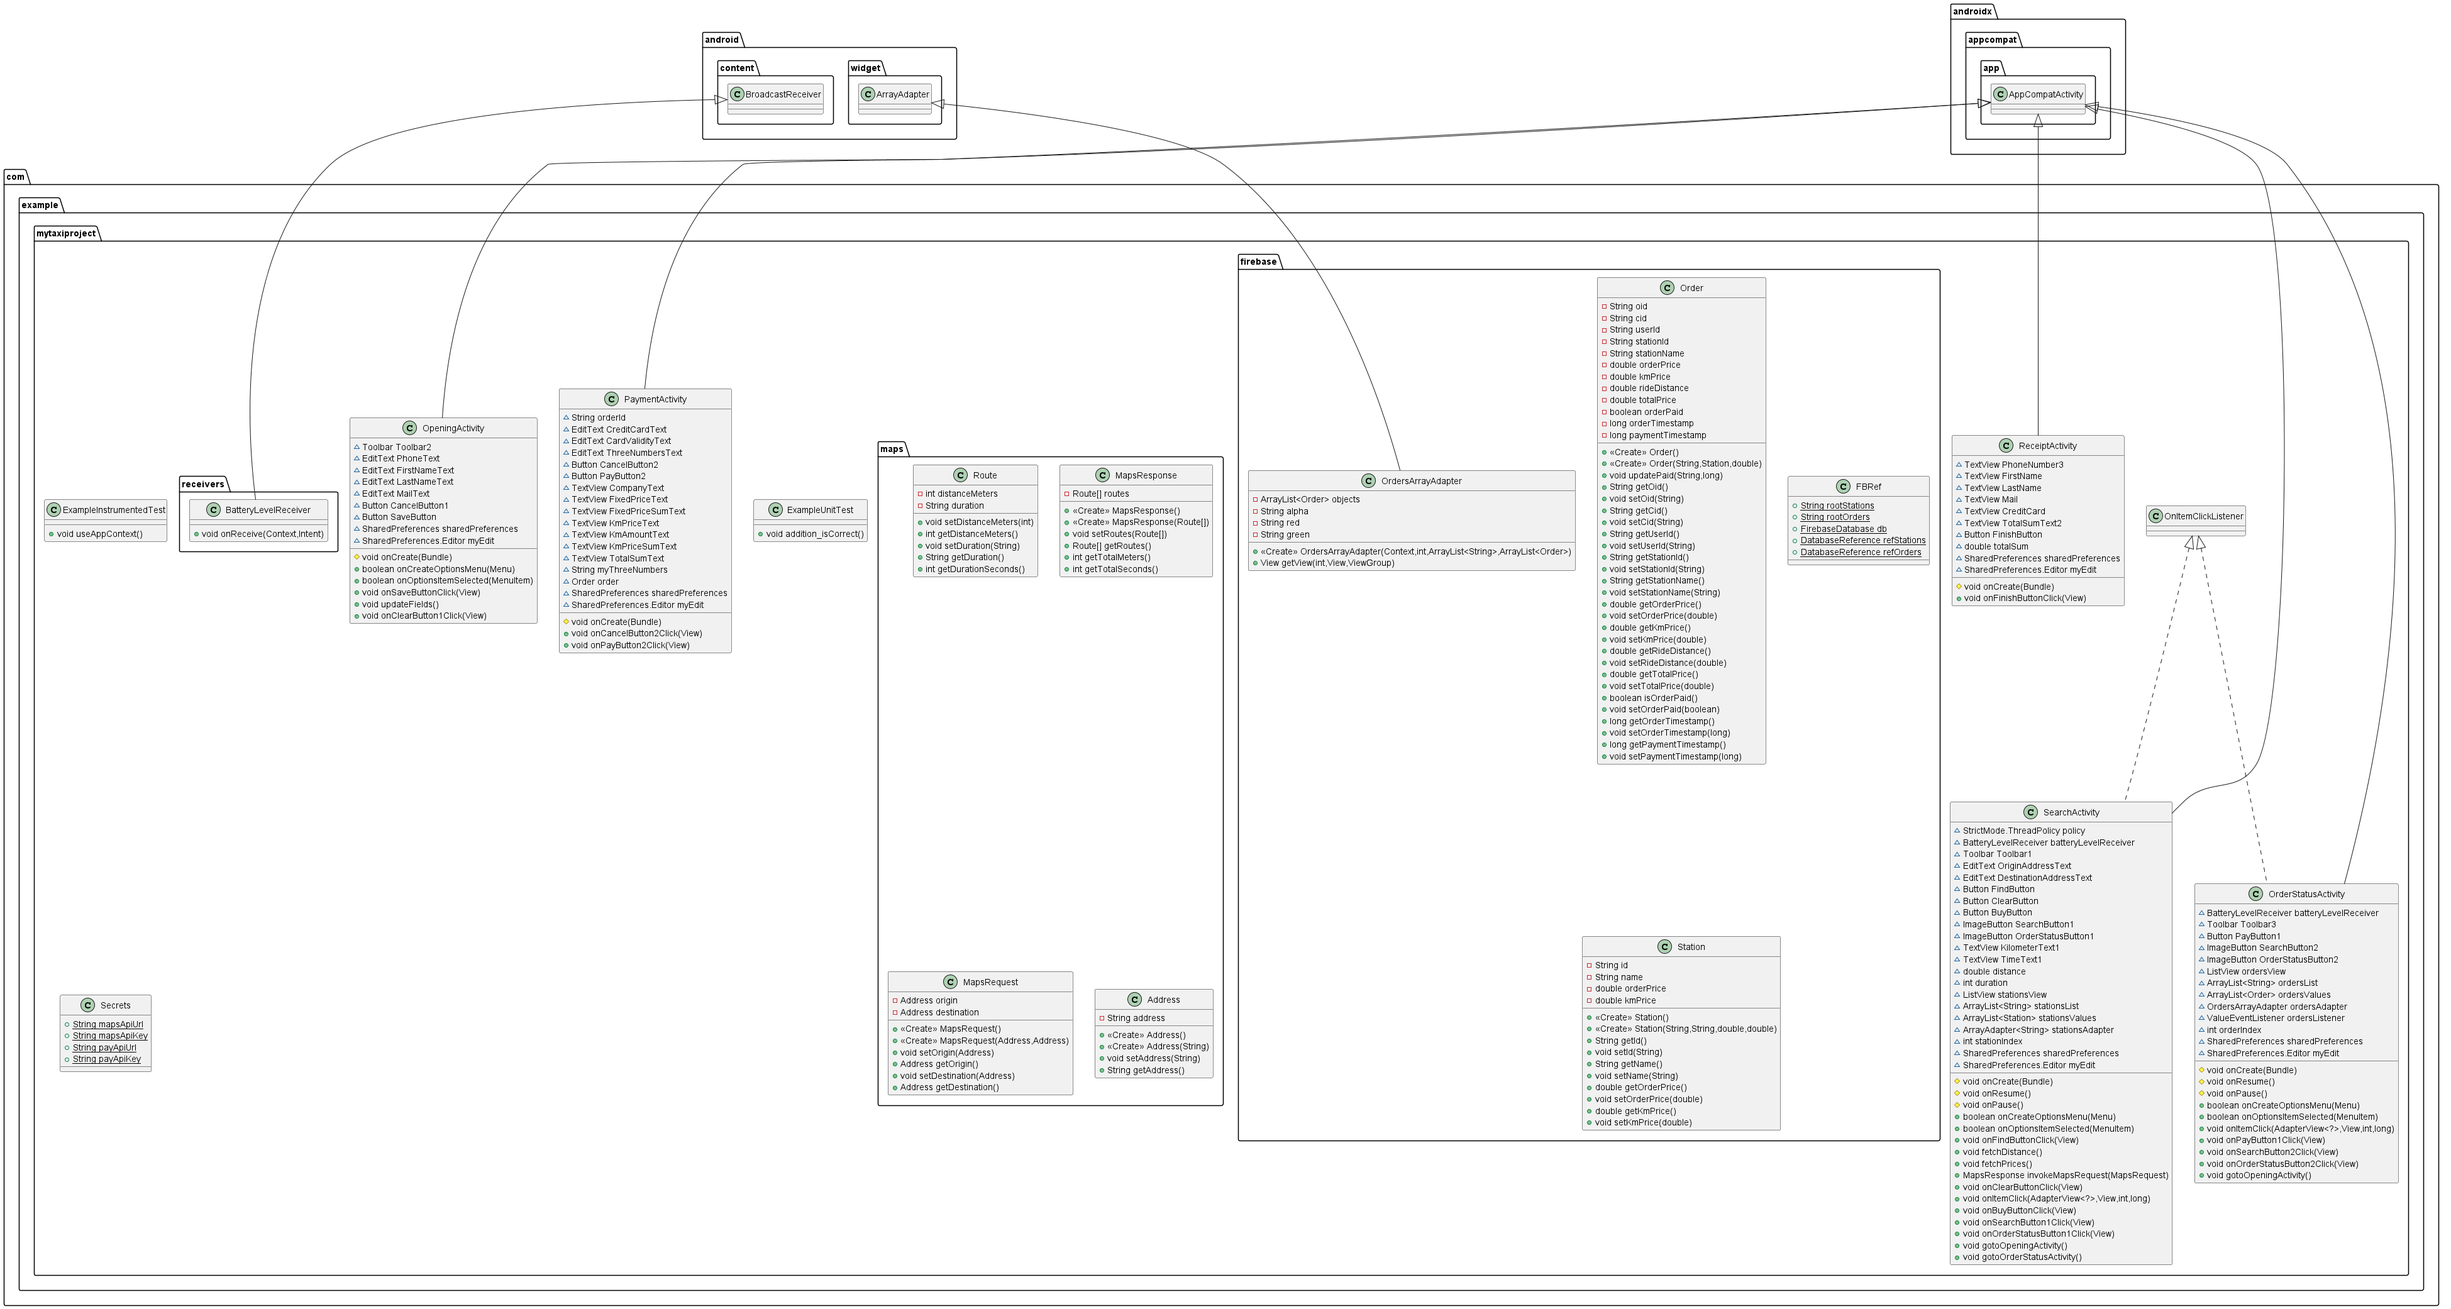
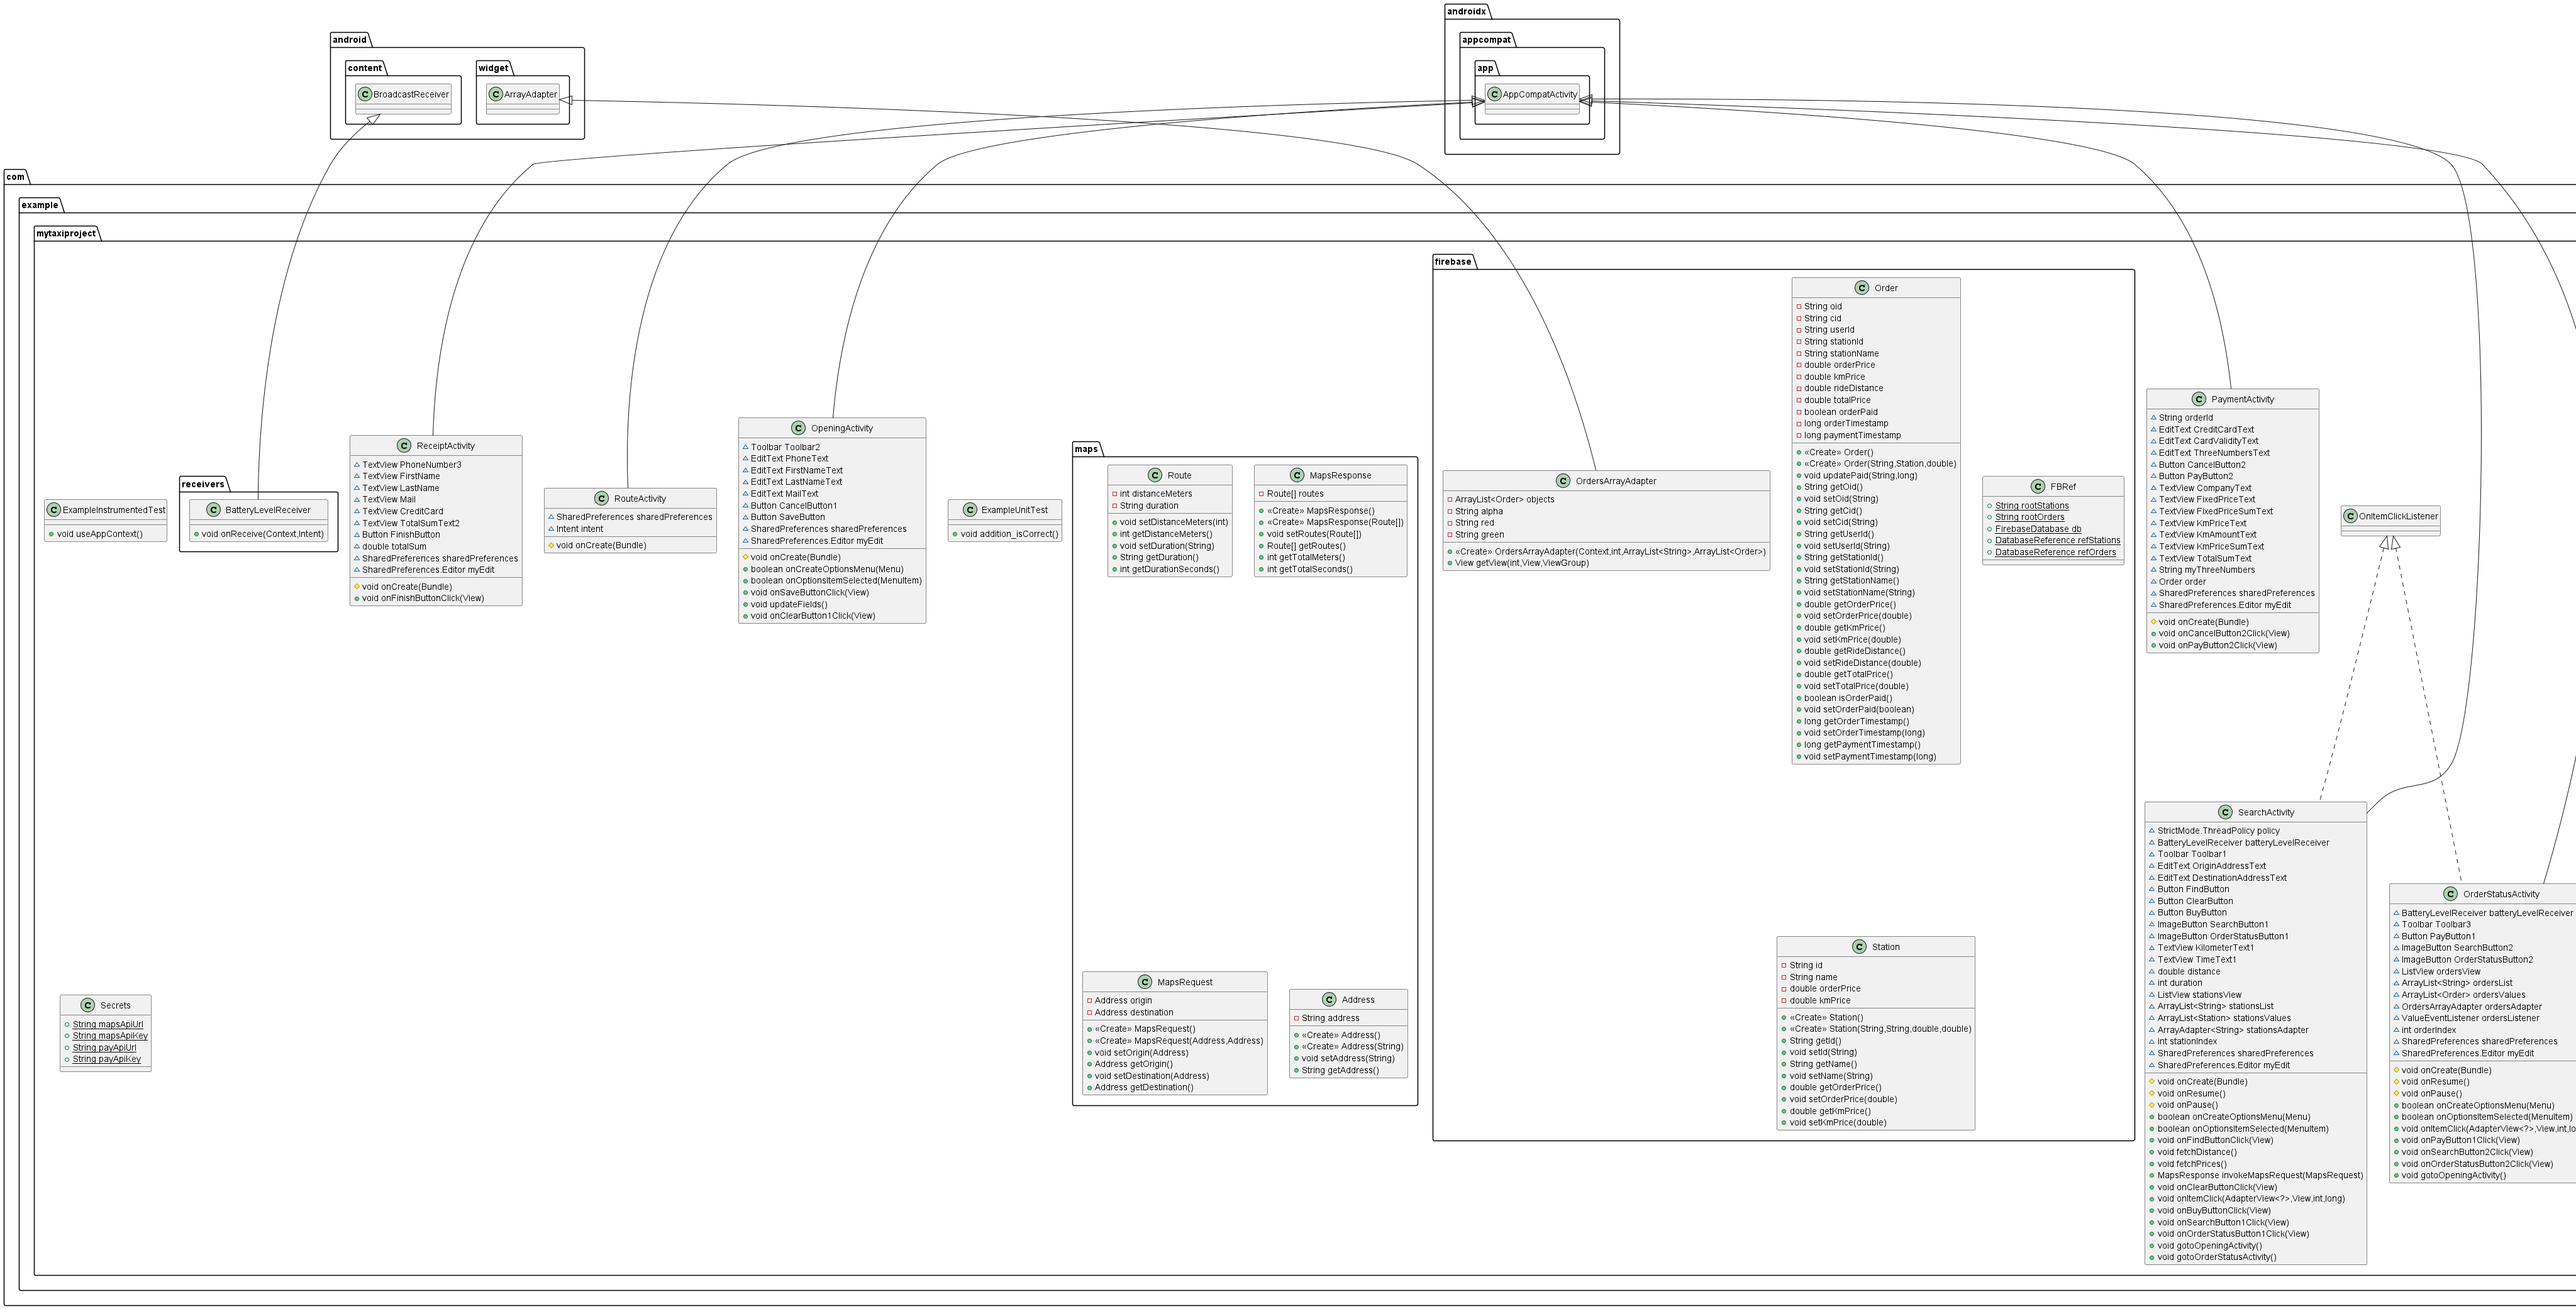
Add route activity

diff --git a/app/src/main/java/com/example/mytaxiproject/RouteActivity.java b/app/src/main/java/com/example/mytaxiproject/RouteActivity.java
@@ -1,0 +1,28 @@
+package com.example.mytaxiproject;
+
+import androidx.appcompat.app.AppCompatActivity;
+
+import android.content.Intent;
+import android.content.SharedPreferences;
+import android.os.Bundle;
+
+public class RouteActivity extends AppCompatActivity {
+    SharedPreferences sharedPreferences;
+    Intent intent;
+
+    @Override
+    protected void onCreate(Bundle savedInstanceState) {
+        super.onCreate(savedInstanceState);
+        setContentView(R.layout.activity_route);
+
+        sharedPreferences = getSharedPreferences("MySharedPref", MODE_PRIVATE);
+
+        if (sharedPreferences.getString("yourPhoneNumber", "").length() > 0) {
+            intent = new Intent(this, SearchActivity.class);
+        } else {
+            intent = new Intent(this, OpeningActivity.class);
+        }
+
+        startActivity(intent);
+    }
+}
